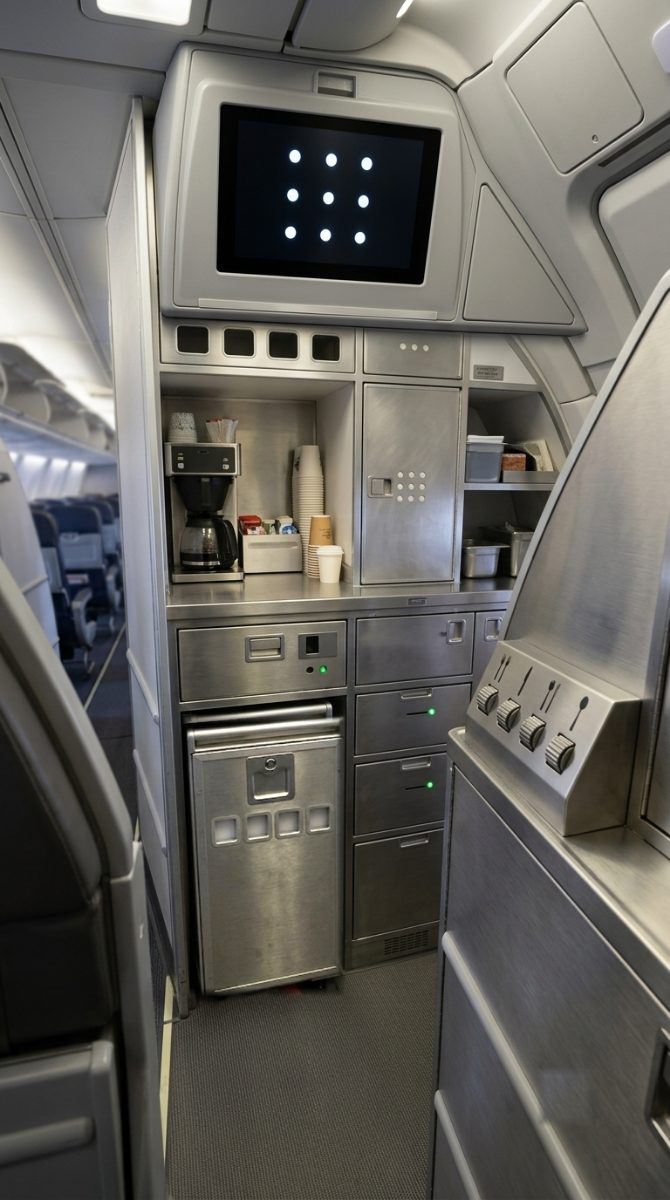
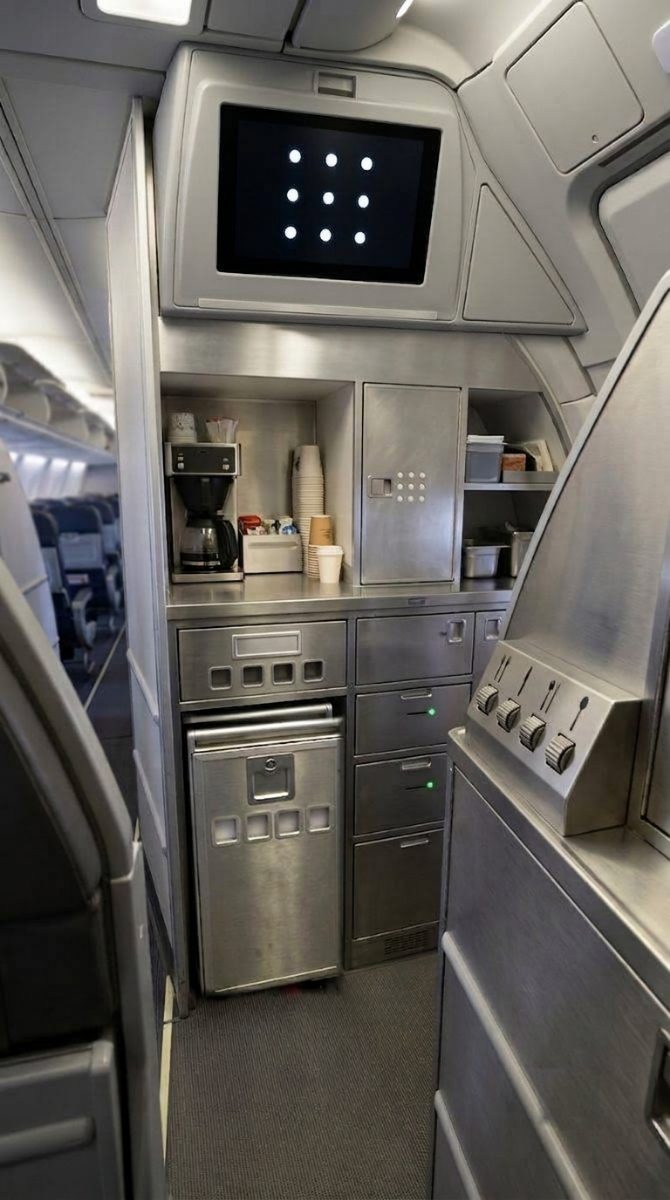
odyssey: v0.17.27 — 갤리 배경맵 CHOI 재배치 반영(snack 핫스팟 이동)
승인된 v2 배경(galley_relocate_v2_clean, 768×1376→670×1200)으로 map_galley.jpg 교체.
#25 색상판(빈 명패+홈 4개)이 IFE 화면 아래 가로줄에서 제빙함 위 서랍으로 이동, 옛 상단
자리는 밋밋한 금속. 이에 맞춰 snack 핫스팟 이동:
  스테이지% x24 y20.13 w29 h10.07 → x30 y49.36 w19 h10.94
  (map-fit 3뷰포트 합집합. 최소 탭 71×57~76×76, 전부 ≥52px. 이웃 겹침 0쌍:
   cart gapY 1.70%·drawer gapX 4.10%·smallbox·upper 무접촉). 옛 자리 spot 없음=무반응.
다른 spot(upper/drawer/cart/smallbox)·클로즈업 불변. 게이트 locks·walkthrough(85컷)·
webkit 전부 exit0, 콘솔 에러 0.

Claude-Session: https://claude.ai/code/session_01MhuwYR4WciaPURbTQWmJpZ

diff --git a/odyssey/index.html b/odyssey/index.html
@@ -11388,7 +11388,7 @@ function findAlignmentPattern(matrix, alignmentPatternQuads, topRight, topLeft, 
 (function () {
   "use strict";
 
-  var BUILD = "ODY-S1-20260914-2254";
+  var BUILD = "ODY-S1-20260915-0732";
   var LSKEY = "odyssey.s1.v1";
 
   var qs = new URLSearchParams(location.search);
@@ -12636,8 +12636,15 @@ function findAlignmentPattern(matrix, alignmentPatternQuads, topRight, topLeft, 
       spots: [
         /* 상단 3×3 점 화면 수납함 — 사진 % y11.5~19.6 (화면 자체는 8.9~23.0, 위쪽은 402·375 에서 잘림) */
         { id: "upper", x: 30, y: 0.43, w: 38.01, h: 19.17, label: "상단 수납함", cu: "upper" },
-        /* ★북쑥 확정 15:33: 간식 수납칸(#25 색상판 홈 4개 + 빈 명판) — 화면 바로 아래 가로줄 */
-        { id: "snack", x: 24, y: 20.13, w: 29, h: 10.07, label: "간식 수납칸", cu: "snack" },
+        /* ★v0.17.27 갤리 배경맵 v2 반영 — #25 색상판(빈 명판 + 홈 4개)이 화면 바로 아래 가로줄에서
+           **제빙함(cart) 바로 위 서랍**으로 이동. 사진 실측(galley_relocate_v2_clean 768×1376):
+           빈 명판 사진% x34~45 y52.5~54.6 + 홈 4개 x31~48.5 y54.5~57.5 → 요소 전체 사진% x31~49 y52.5~57.5.
+           375×667 세로 22.3% 크롭에서 탭이 얇아져 위(카운터 립)로 넉넉히 잡음 → 사진% x30 y49.5 w19 h8.5.
+           tools/map-fit.mjs 3뷰포트 합집합 = 스테이지% x30 y49.36 w19 h10.94. 최소 탭 3뷰포트
+           (chromium/webkit 402×738·390×844·375×667) = 76×65 / 74×76 / 71×57 (전부 ≥52px).
+           겹침 0쌍: cart(아래, gapY 1.70%)·drawer(오른쪽, gapX 4.10%)·smallbox·upper 전부 무접촉.
+           옛 상단 자리(스테이지 y20~30)는 이제 spot 없음 = 완전 무반응. cu·label 은 그대로. */
+        { id: "snack", x: 30, y: 49.36, w: 19, h: 10.94, label: "간식 수납칸", cu: "snack" },
         /* 카드슬롯 서랍 (#14) — galley_drawer.jpg 클로즈업(핸들+가로 카드슬롯 홈+초록 LED)이
            열리는 서랍. ★v0.17.23 클릭영역을 **두 서랍 아우르게 확대**(북쑥 최종). 카트(cart,
            왼쪽 제빙함, 오른끝 스테이지 52.5%)와 식기 다이얼박스(smallbox, 오른쪽 포크·숟가락,

diff --git a/odyssey/sw.js b/odyssey/sw.js
@@ -1,5 +1,5 @@
 /* 발리 가는 길에서 생긴 일 — 오프라인 서비스워커 (자동 생성) */
-const CACHE = "odyssey-ODY-S1-20260914-2254";
+const CACHE = "odyssey-ODY-S1-20260915-0732";
 const PRECACHE = [
  "./",
  "./index.html",
